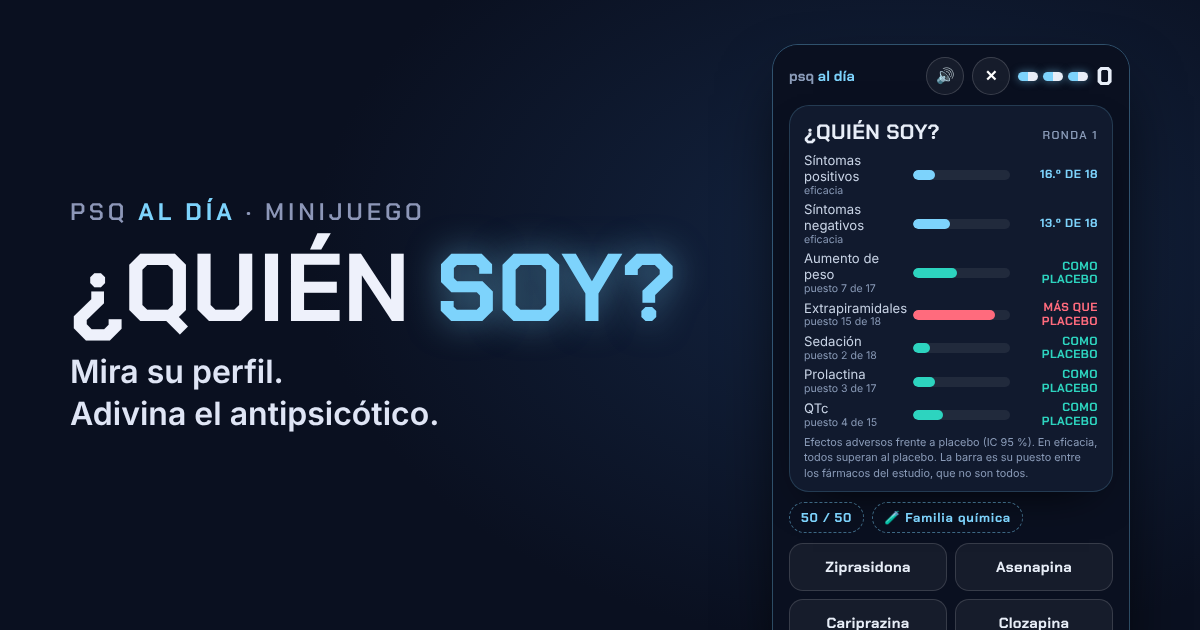
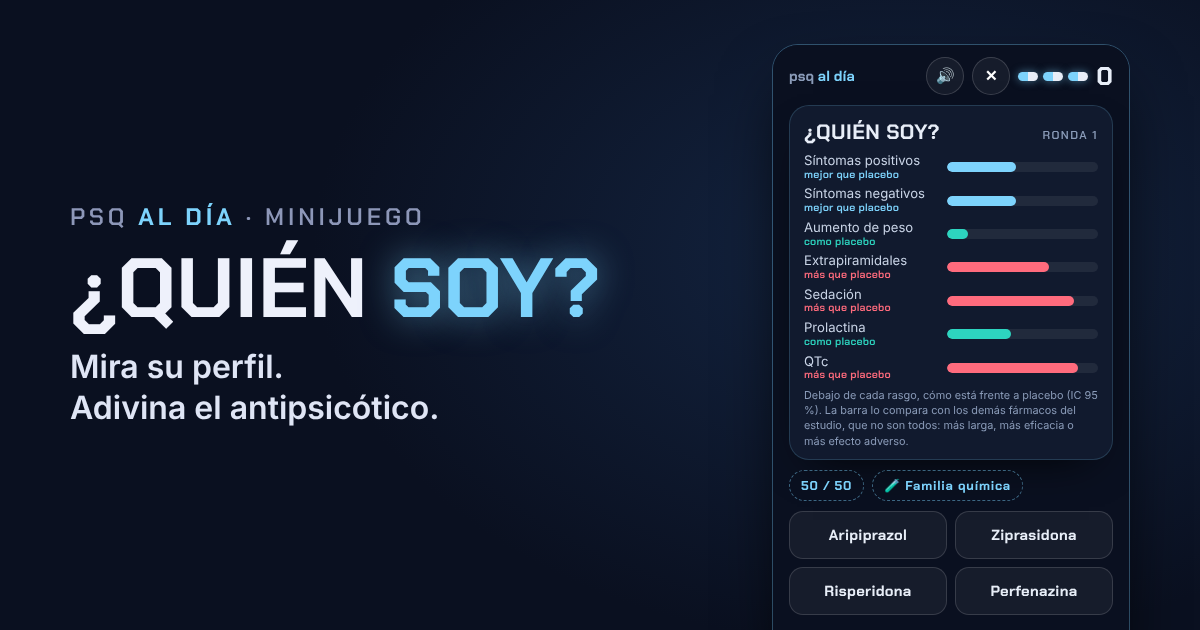
¿Quién soy?: todas las filas con la misma estructura
Antes el puesto salía a la derecha en eficacia y a la izquierda en efectos adversos,
y una barra roja muy llena junto a «más que placebo» parecía decir «mucho más que placebo».
Ahora cada fila tiene lo mismo: debajo del rasgo, cómo está frente a placebo; la barra,
su posición frente a los demás fármacos del estudio. Sin columna de texto a la derecha.

Claude-Session: https://claude.ai/code/session_012UR2hqj2p3uXnEnjRaoj3t

diff --git a/juegos/quien-soy.html b/juegos/quien-soy.html
@@ -60,13 +60,12 @@ body { background: var(--bg); color: var(--ink); font-family: var(--f-body); -we
 .who.reveal { color: var(--accent); }
 .tag { font-family: var(--f-display); font-size: .72rem; letter-spacing: .12em; text-transform: uppercase; color: var(--muted); }
 .rows { display: grid; gap: 9px; }
-.row { display: grid; grid-template-columns: 7.6rem 1fr 5.4rem; gap: 10px; align-items: center; }
+.row { display: grid; grid-template-columns: 9.2rem 1fr; gap: 12px; align-items: center; }
 .row .lbl { font-size: .86rem; color: #c9d4e6; line-height: 1.2; }
-.row .lbl small { display: block; color: var(--muted); font-size: .72rem; }
+.row .lbl small { display: block; color: var(--muted); font-size: .72rem; font-family: var(--f-display); font-weight: 600; letter-spacing: .02em; }
+.row .lbl small.good { color: var(--good); } .row .lbl small.bad { color: var(--bad); } .row .lbl small.eff { color: var(--accent); }
 .track { height: 12px; border-radius: 99px; background: rgba(255, 255, 255, .07); overflow: hidden; position: relative; }
 .track i { position: absolute; inset: 0 auto 0 0; border-radius: 99px; transition: width .5s cubic-bezier(.2, .8, .2, 1); }
-.row .lvl { font-family: var(--f-display); font-weight: 700; font-size: .74rem; letter-spacing: .04em; text-transform: uppercase; text-align: right; line-height: 1.15; }
-.lvl.good { color: var(--good); } .lvl.bad { color: var(--bad); } .lvl.eff { color: var(--accent); } .lvl.na { color: var(--muted); }
 .track i.good { background: var(--good); } .track i.bad { background: var(--bad); } .track i.eff { background: var(--accent); }
 .legend { margin-top: 12px; font-size: .74rem; color: var(--muted); line-height: 1.4; }
 
@@ -109,10 +108,10 @@ body { background: var(--bg); color: var(--ink); font-family: var(--f-body); -we
 .badge[hidden] { display: none; }
 .fine { color: var(--muted); font-size: .74rem; margin: 0; line-height: 1.45; }
 @media (prefers-reduced-motion: reduce) { * { transition: none !important; } }
-@media (max-width: 380px) { .row { grid-template-columns: 6.2rem 1fr 4.9rem; } .opt { font-size: .92rem; } }
+@media (max-width: 380px) { .row { grid-template-columns: 8.2rem 1fr; } .opt { font-size: .92rem; } }
 @media (max-width: 380px) { .score small { display: none; } .stats { gap: 8px; } }
 /* Pantallas bajas (la mayoría de Android): que las opciones quepan sin desplazar */
-@media (max-height: 600px) { .row .lbl small { display: none; } .legend { display: none; } }
+@media (max-height: 600px) { .legend { display: none; } .row .lbl { font-size: .78rem; } }
 @media (max-height: 780px) {
     .app { gap: 10px; }
     .card { padding: 12px 14px 10px; }
@@ -147,7 +146,7 @@ body { background: var(--bg); color: var(--ink); font-family: var(--f-body); -we
             <div class="tag" id="round">Ronda 1</div>
         </div>
         <div class="rows" id="rows"></div>
-        <div class="legend">Efectos adversos frente a placebo (IC 95 %). En eficacia, todos superan al placebo. La barra es su puesto entre los fármacos del estudio, que no son todos.</div>
+        <div class="legend">Debajo de cada rasgo, cómo está frente a placebo (IC 95 %). La barra lo compara con los demás fármacos del estudio, que no son todos: más larga, más eficacia o más efecto adverso.</div>
     </div>
 
     <div class="helpers">
@@ -242,7 +241,7 @@ body { background: var(--bg); color: var(--ink); font-family: var(--f-body); -we
     });
     // el tercio solo se usa para redactar la pista («de los que más…»), nunca se enseña como etiqueta
     const level = v => v === null ? 'na' : v <= 1 / 3 ? 'good' : v < 2 / 3 ? 'mid' : 'bad';
-    const PLAC_TXT = { below: 'Menos que placebo', same: 'Como placebo', above: 'Más que placebo' };
+    const PLAC_TXT = { below: 'menos que placebo', same: 'como placebo', above: 'más que placebo', better: 'mejor que placebo' };
     const PLAC_CLS = { below: 'good', same: 'good', above: 'bad', better: 'eff' };
     function dist(a, b) { // parecido entre perfiles (solo rasgos con dato en ambos)
         let s = 0, n = 0; a.prof.forEach((v, i) => { const w = b.prof[i]; if (v !== null && w !== null) { s += (v - w) ** 2; n++; } });
@@ -274,17 +273,15 @@ body { background: var(--bg); color: var(--ink); font-family: var(--f-body); -we
     }
     function renderProfile(d) {
         $('rows').innerHTML = DIMS.map((dim, i) => {
-            const v = d.prof[i], r = d.rank[i], pl = d.plac[i];
-            if (v === null) return `<div class="row"><div class="lbl">${dim.label}<small>${dim.sub}</small></div>
-                <div class="track" aria-hidden="true"></div><div class="lvl na">Sin datos</div></div>`;
-            // la barra es su puesto entre los fármacos de la figura: en eficacia, más larga = más eficaz;
-            // en efectos adversos, más larga = más efecto
-            const w = 12 + (dim.eff ? 1 - v : v) * 88, cls = PLAC_CLS[pl];
-            const txt = dim.eff ? `${r.pos}.º de ${r.of}` : PLAC_TXT[pl];
-            const sub = dim.eff ? 'eficacia' : `puesto ${r.pos} de ${r.of}`;
-            return `<div class="row"><div class="lbl">${dim.label}<small>${sub}</small></div>
-                <div class="track" aria-hidden="true"><i class="${cls}" style="width:${w}%"></i></div>
-                <div class="lvl ${cls}">${txt}</div></div>`;
+            const v = d.prof[i], pl = d.plac[i];
+            // Misma estructura en todas las filas:
+            //  · debajo del rasgo, cómo está frente a placebo (dato absoluto de la figura)
+            //  · la barra, su posición frente a los demás fármacos del estudio (más larga = más eficacia o más efecto)
+            if (v === null) return `<div class="row"><div class="lbl">${dim.label}<small class="na">sin datos</small></div>
+                <div class="track" aria-hidden="true"></div></div>`;
+            const w = 8 + (dim.eff ? 1 - v : v) * 92, cls = PLAC_CLS[pl];
+            return `<div class="row"><div class="lbl">${dim.label}<small class="${cls}">${PLAC_TXT[pl]}</small></div>
+                <div class="track" role="img" aria-label="${dim.eff ? 'eficacia' : 'efecto'} ${Math.round((dim.eff ? 1 - v : v) * 100)} sobre 100 frente a los demás"><i class="${cls}" style="width:${w}%"></i></div></div>`;
         }).join('');
     }
     function pickRound() {
